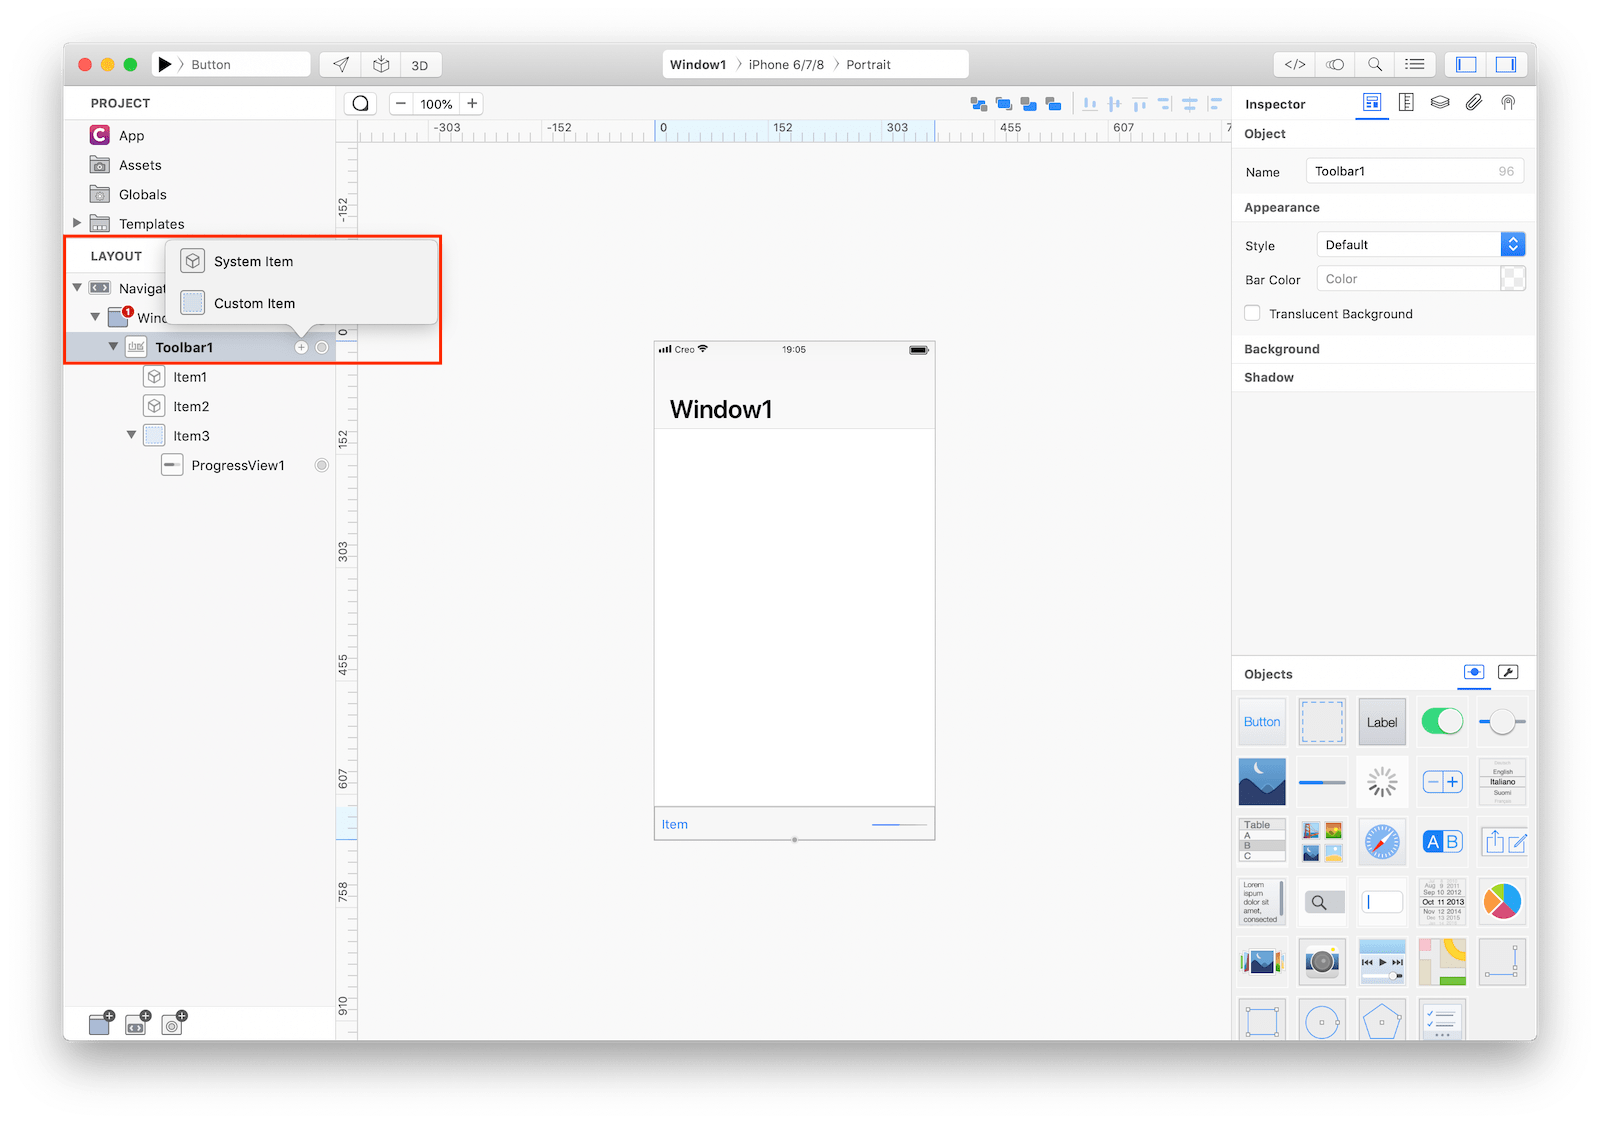
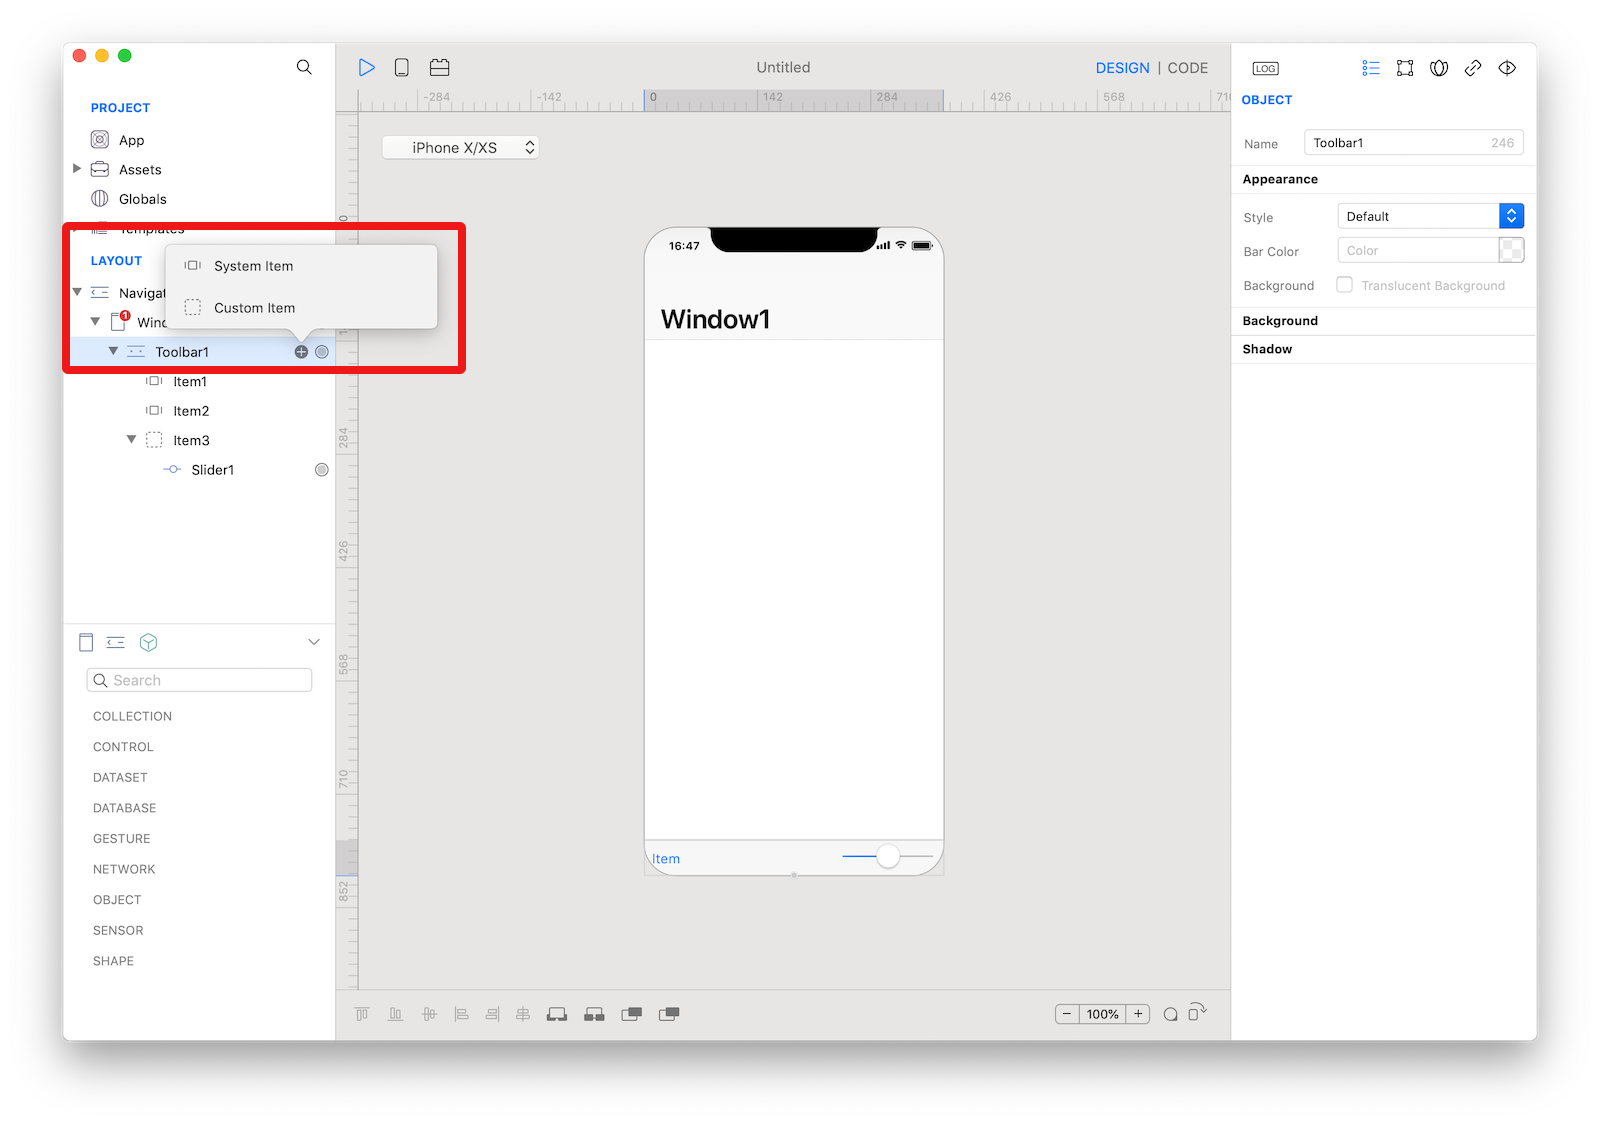
Updated Toolbar for Creo2

diff --git a/docs/creo/Toolbar.md b/docs/creo/Toolbar.md
@@ -1,6 +1,6 @@
 A toolbar appears at the bottom of an app screen and contains buttons for performing actions relevant to the current view or content within it. Toolbars are translucent, may have a background tint, and often hide when people are unlikely to need them. For example, in Safari, the toolbar hides when you begin scrolling the page since you are likely reading. You can show it again by tapping the bottom of the screen. Toolbars are also hidden when a keyboard is onscreen.
 
-![Toolbar](../images/creo/toolbar1.png)
+![Toolbar](../images/creo2/toolbar1.png)
 
 ### Best practices
 * **Provide relevant toolbar buttons.** A toolbar should contain frequently used commands that make sense in the current context.
@@ -12,45 +12,45 @@ A toolbar appears at the bottom of an app screen and contains buttons for perfor
 1. Drop a `Toolbar` control from the object panel to a `Window`
 2. Use the `Toolbar Inspector` to customize its properties like `Style` and `Bar Color`
 
-![`Toolbar` inspector](../images/creo/toolbar2.png)
+![`Toolbar` inspector](../images/creo2/toolbar2.png)
 The inspector where the `Toolbar` class can be configured.
 
 ### How to customize
 The `Toolbar` can be customized by tapping the subnode icons (+).
 
-![`Toolbar` customizations](../images/creo/toolbar3.png)
+![`Toolbar` customizations](../images/creo2/toolbar3.png)
 The `Toolbar` customizations.
 
 ### System Item
 A standard item for placement on a `Toolbar` that can be configured with a system style.
 
-![`Toolbar` system item](../images/creo/toolbar4.png)
+![`Toolbar` system item](../images/creo2/toolbar4.png)
 The `Toolbar` system item.
 
 ### How to use
 1. Use the `Toolbar System Item Inspector` to customize its properties like `System Item`, `Title` and `Image`.
 
-![`Toolbar` item customizations](../images/creo/toolbar6.png)
+![`Toolbar` item customizations](../images/creo2/toolbar6.png)
 The `Toolbar` item customizations.
 
-![`Toolbar` system items](../images/creo/toolbar7.png)
+![`Toolbar` system items](../images/creo2/toolbar7.png)
 The `Toolbar` item system styles.
 
 ### Custom Item
 A custom item for placement on a `Toolbar` that can be configured for different purposes exposing and configuring a custom `View`.
 
-![`Toolbar` custom item](../images/creo/toolbar5.png)
+![`Toolbar` custom item](../images/creo2/toolbar5.png)
 The `Toolbar` custom item.
 
 ### How to use
 1. Select the `Toolbar Custom Item` item from the layout panel
 2. Drop a control from the object panel to the custom `View`
 
-![`Toolbar Custom Item` item custom view](../images/creo/toolbar8.png)
+![`Toolbar Custom Item` item custom view](../images/creo2/toolbar8.png)
 The `Toolbar Custom Item` item custom view.
 
 ### Example
-1. Open the `Code Editor` (cmd + 6)
+1. Open the `Code Editor`
 2. Select the `Toolbar` item named `Item1`
 3. Select the `Action` item inside the `Events` area and write your custom code in the `Code Editor`
 ```
